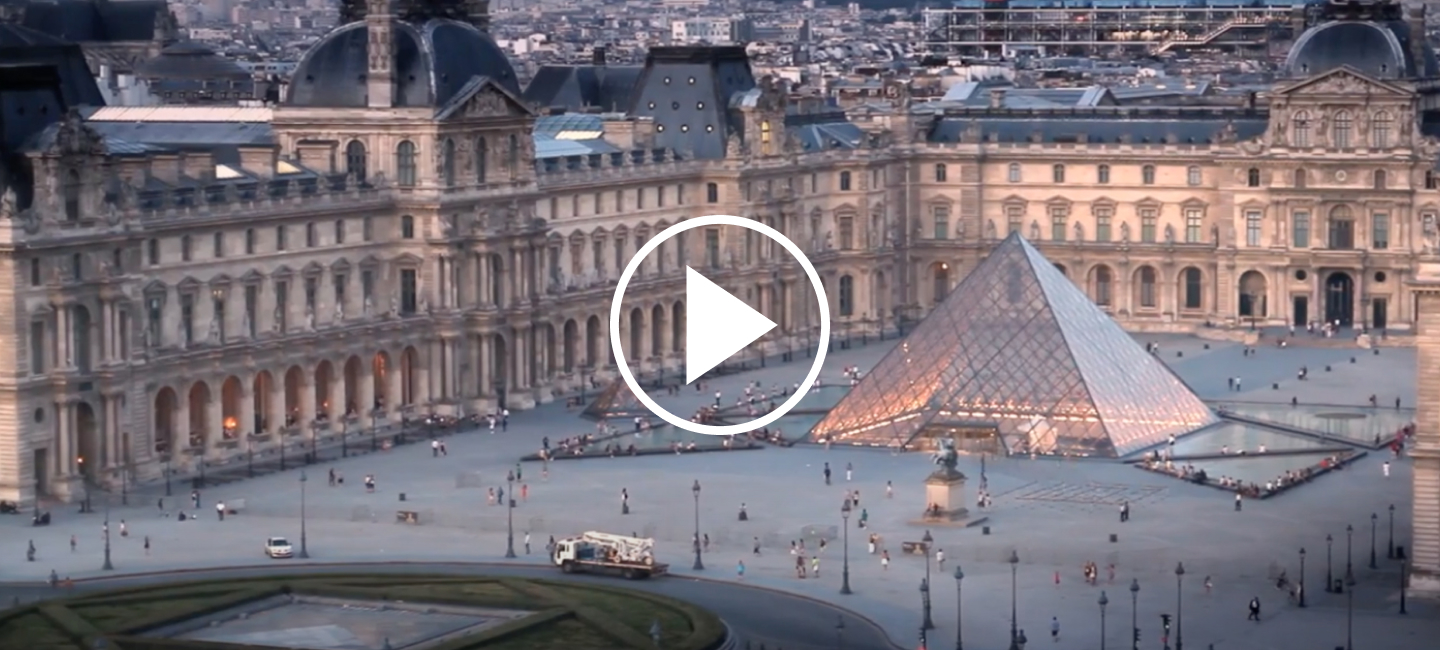
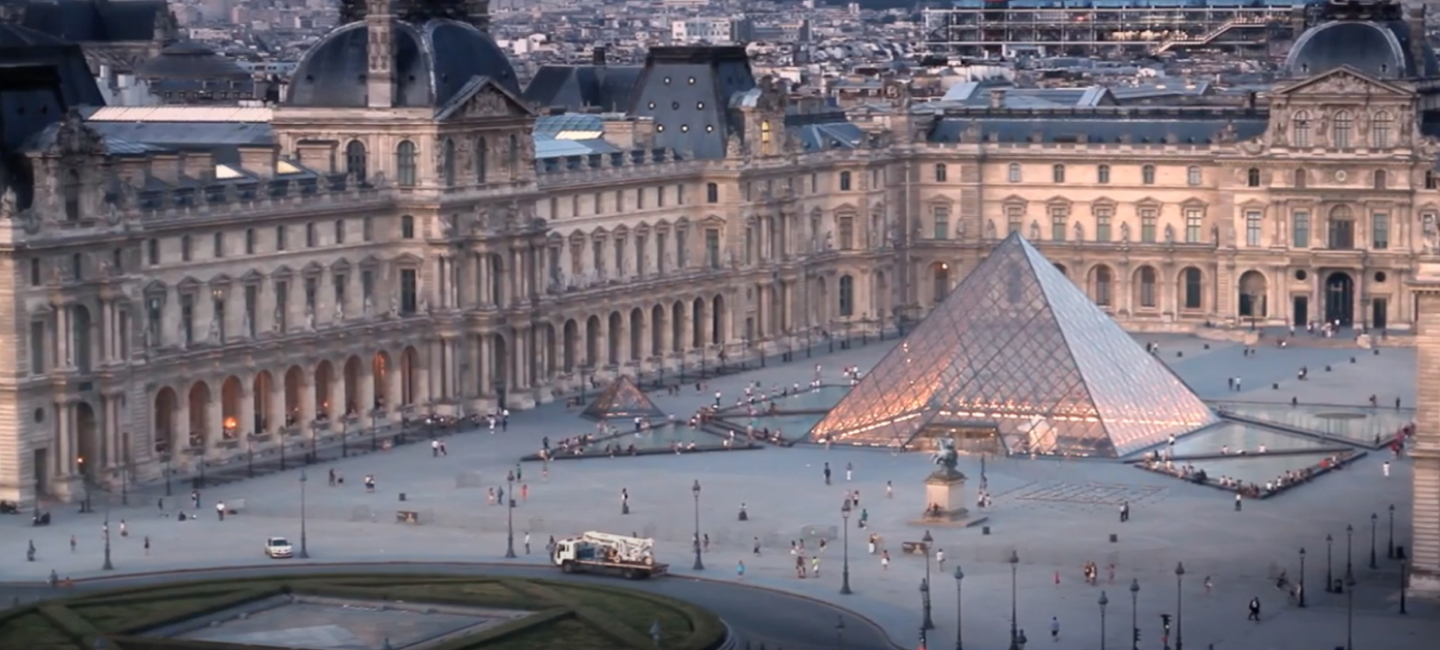
feat: add parallax

diff --git a/museum/index.html b/museum/index.html
@@ -126,7 +126,9 @@
                         masterpieces such as Mona Lisa or Hammurabi's Code</p>
                 </div>
                 <article class="video__player">
-                    <video src="assets/video/video.mp4" poster="assets/video/video-player-poster.jpg" controls></video>
+                    <video src="assets/video/video.mp4" poster="assets/video/video-player-poster.jpg" controls>
+                        <button class="video-slider-item__btn"></button>
+                    </video>
                 </article>
                 <article class="video__slider video-slider">
                     <div class="video-slider__inner">
@@ -207,8 +209,8 @@
                                 <p class="tickets-amount-item__desc">Basic 18+</p>
                                 <div class="tickets-amount-item__inner">
                                     <button type="button" onclick="this.nextElementSibling.stepDown()"
-                                        class="tickets-amount-item__btn">-</button>
-                                    <input type="number" min="0" max="120" value="1" readonly
+                                        class="tickets-amount-item__btn">–</button>
+                                    <input type="number" min="0" max="20" value="1" readonly
                                         class="tickets-amount-item__num">
                                     <button type="button" onclick="this.previousElementSibling.stepUp()"
                                         class="tickets-amount-item__btn">+</button>
@@ -218,8 +220,8 @@
                                 <p class="tickets-amount-item__desc">Senior 65+</p>
                                 <div class="tickets-amount-item__inner">
                                     <button type="button" onclick="this.nextElementSibling.stepDown()"
-                                        class="tickets-amount-item__btn">-</button>
-                                    <input type="number" min="0" max="120" value="1" readonly
+                                        class="tickets-amount-item__btn">–</button>
+                                    <input type="number" min="0" max="20" value="1" readonly
                                         class="tickets-amount-item__num">
                                     <button type="button" onclick="this.previousElementSibling.stepUp()"
                                         class="tickets-amount-item__btn">+</button>

diff --git a/museum/style.css b/museum/style.css
@@ -453,9 +453,11 @@ body {
 }
 
 .main__panorama {
-    background-image: url(assets/img/panorama.jpg);
+    background-image: url(assets/img/parallax.jpg);
     height: 400px;
     width: 100%;
+    background-size: cover;
+    background-attachment: fixed;
 }
 
 .contacts__wrapper {
